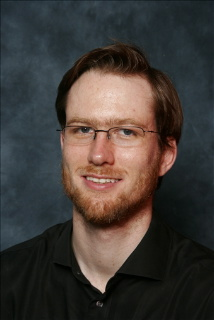
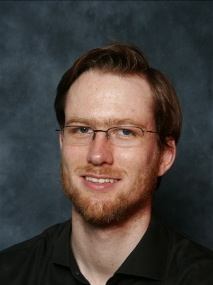
Add Simon and reduce David's head size!

diff --git a/python/firedrake_docs/source/team.py b/python/firedrake_docs/source/team.py
@@ -13,11 +13,12 @@ team = OrderedDict([
     ("Graham Markall", "http://www.doc.ic.ac.uk/~grm08/"),
     ("Andrew McRae", "http://www.imperial.ac.uk/people/a.mcrae12/"),
     ("Michael Lange", "http://www.imperial.ac.uk/people/michael.lange/"),
+    ("Simon Funke", "http://www.imperial.ac.uk/people/s.funke09/"),
     ("Colin Cotter", "http://www.imperial.ac.uk/people/colin.cotter/")
 ])
 
-cols = 3
-colwidth = "30%"
+cols = 4
+colwidth = "23%"
 
 coldashes = max(map(len, team.keys())) + 5
 
@@ -41,7 +42,7 @@ names = []
 for member, url in team.iteritems():
     out.write(".. |" + member + "| image:: /images/" +
               member.split()[0].lower() + ".*\n")
-    out.write("   :width: 50%\n")
+    out.write("   :width: 70%\n")
     out.write("   :target: %s\n" % url)
     out.write(".. _" + member + ": " + url + "\n")
 

diff --git a/python/firedrake_docs/source/teamgrid.rst b/python/firedrake_docs/source/teamgrid.rst
@@ -1,65 +1,65 @@
 ..
   This file is generated by team.py. DO NOT EDIT DIRECTLY
 .. |David Ham| image:: /images/david.*
-   :width: 50%
+   :width: 70%
    :target: http://www.imperial.ac.uk/people/david.ham
 .. _David Ham: http://www.imperial.ac.uk/people/david.ham
 .. |Paul Kelly| image:: /images/paul.*
-   :width: 50%
+   :width: 70%
    :target: http://www.imperial.ac.uk/people/p.kelly
 .. _Paul Kelly: http://www.imperial.ac.uk/people/p.kelly
 .. |Florian Rathgeber| image:: /images/florian.*
-   :width: 50%
+   :width: 70%
    :target: http://www.imperial.ac.uk/people/f.rathgeber10
 .. _Florian Rathgeber: http://www.imperial.ac.uk/people/f.rathgeber10
 .. |Lawrence Mitchell| image:: /images/lawrence.*
-   :width: 50%
+   :width: 70%
    :target: http://www.imperial.ac.uk/people/lawrence.mitchell
 .. _Lawrence Mitchell: http://www.imperial.ac.uk/people/lawrence.mitchell
 .. |Fabio Luporini| image:: /images/fabio.*
-   :width: 50%
+   :width: 70%
    :target: http://www.imperial.ac.uk/people/f.luporini12
 .. _Fabio Luporini: http://www.imperial.ac.uk/people/f.luporini12
 .. |Doru Bercea| image:: /images/doru.*
-   :width: 50%
+   :width: 70%
    :target: http://www.imperial.ac.uk/people/gheorghe-teodor.bercea08
 .. _Doru Bercea: http://www.imperial.ac.uk/people/gheorghe-teodor.bercea08
 .. |Nicolas Loriant| image:: /images/nicolas.*
-   :width: 50%
+   :width: 70%
    :target: http://www.doc.ic.ac.uk/~nloriant/
 .. _Nicolas Loriant: http://www.doc.ic.ac.uk/~nloriant/
 .. |Graham Markall| image:: /images/graham.*
-   :width: 50%
+   :width: 70%
    :target: http://www.doc.ic.ac.uk/~grm08/
 .. _Graham Markall: http://www.doc.ic.ac.uk/~grm08/
 .. |Andrew McRae| image:: /images/andrew.*
-   :width: 50%
+   :width: 70%
    :target: http://www.imperial.ac.uk/people/a.mcrae12/
 .. _Andrew McRae: http://www.imperial.ac.uk/people/a.mcrae12/
 .. |Michael Lange| image:: /images/michael.*
-   :width: 50%
+   :width: 70%
    :target: http://www.imperial.ac.uk/people/michael.lange/
 .. _Michael Lange: http://www.imperial.ac.uk/people/michael.lange/
+.. |Simon Funke| image:: /images/simon.*
+   :width: 70%
+   :target: http://www.imperial.ac.uk/people/s.funke09/
+.. _Simon Funke: http://www.imperial.ac.uk/people/s.funke09/
 .. |Colin Cotter| image:: /images/colin.*
-   :width: 50%
+   :width: 70%
    :target: http://www.imperial.ac.uk/people/colin.cotter/
 .. _Colin Cotter: http://www.imperial.ac.uk/people/colin.cotter/
 
 
-+----------------------+----------------------+----------------------+
-| |David Ham|          | |Paul Kelly|         | |Florian Rathgeber|  |
-|                      |                      |                      |
-| `David Ham`_         | `Paul Kelly`_        | `Florian Rathgeber`_ |
-+----------------------+----------------------+----------------------+
-| |Lawrence Mitchell|  | |Fabio Luporini|     | |Doru Bercea|        |
-|                      |                      |                      |
-| `Lawrence Mitchell`_ | `Fabio Luporini`_    | `Doru Bercea`_       |
-+----------------------+----------------------+----------------------+
-| |Nicolas Loriant|    | |Graham Markall|     | |Andrew McRae|       |
-|                      |                      |                      |
-| `Nicolas Loriant`_   | `Graham Markall`_    | `Andrew McRae`_      |
-+----------------------+----------------------+----------------------+
-| |Michael Lange|      | |Colin Cotter|       |                      |
-|                      |                      |                      |
-| `Michael Lange`_     | `Colin Cotter`_      |                      |
-+----------------------+----------------------+----------------------+
++----------------------+----------------------+----------------------+----------------------+
+| |David Ham|          | |Paul Kelly|         | |Florian Rathgeber|  | |Lawrence Mitchell|  |
+|                      |                      |                      |                      |
+| `David Ham`_         | `Paul Kelly`_        | `Florian Rathgeber`_ | `Lawrence Mitchell`_ |
++----------------------+----------------------+----------------------+----------------------+
+| |Fabio Luporini|     | |Doru Bercea|        | |Nicolas Loriant|    | |Graham Markall|     |
+|                      |                      |                      |                      |
+| `Fabio Luporini`_    | `Doru Bercea`_       | `Nicolas Loriant`_   | `Graham Markall`_    |
++----------------------+----------------------+----------------------+----------------------+
+| |Andrew McRae|       | |Michael Lange|      | |Simon Funke|        | |Colin Cotter|       |
+|                      |                      |                      |                      |
+| `Andrew McRae`_      | `Michael Lange`_     | `Simon Funke`_       | `Colin Cotter`_      |
++----------------------+----------------------+----------------------+----------------------+
